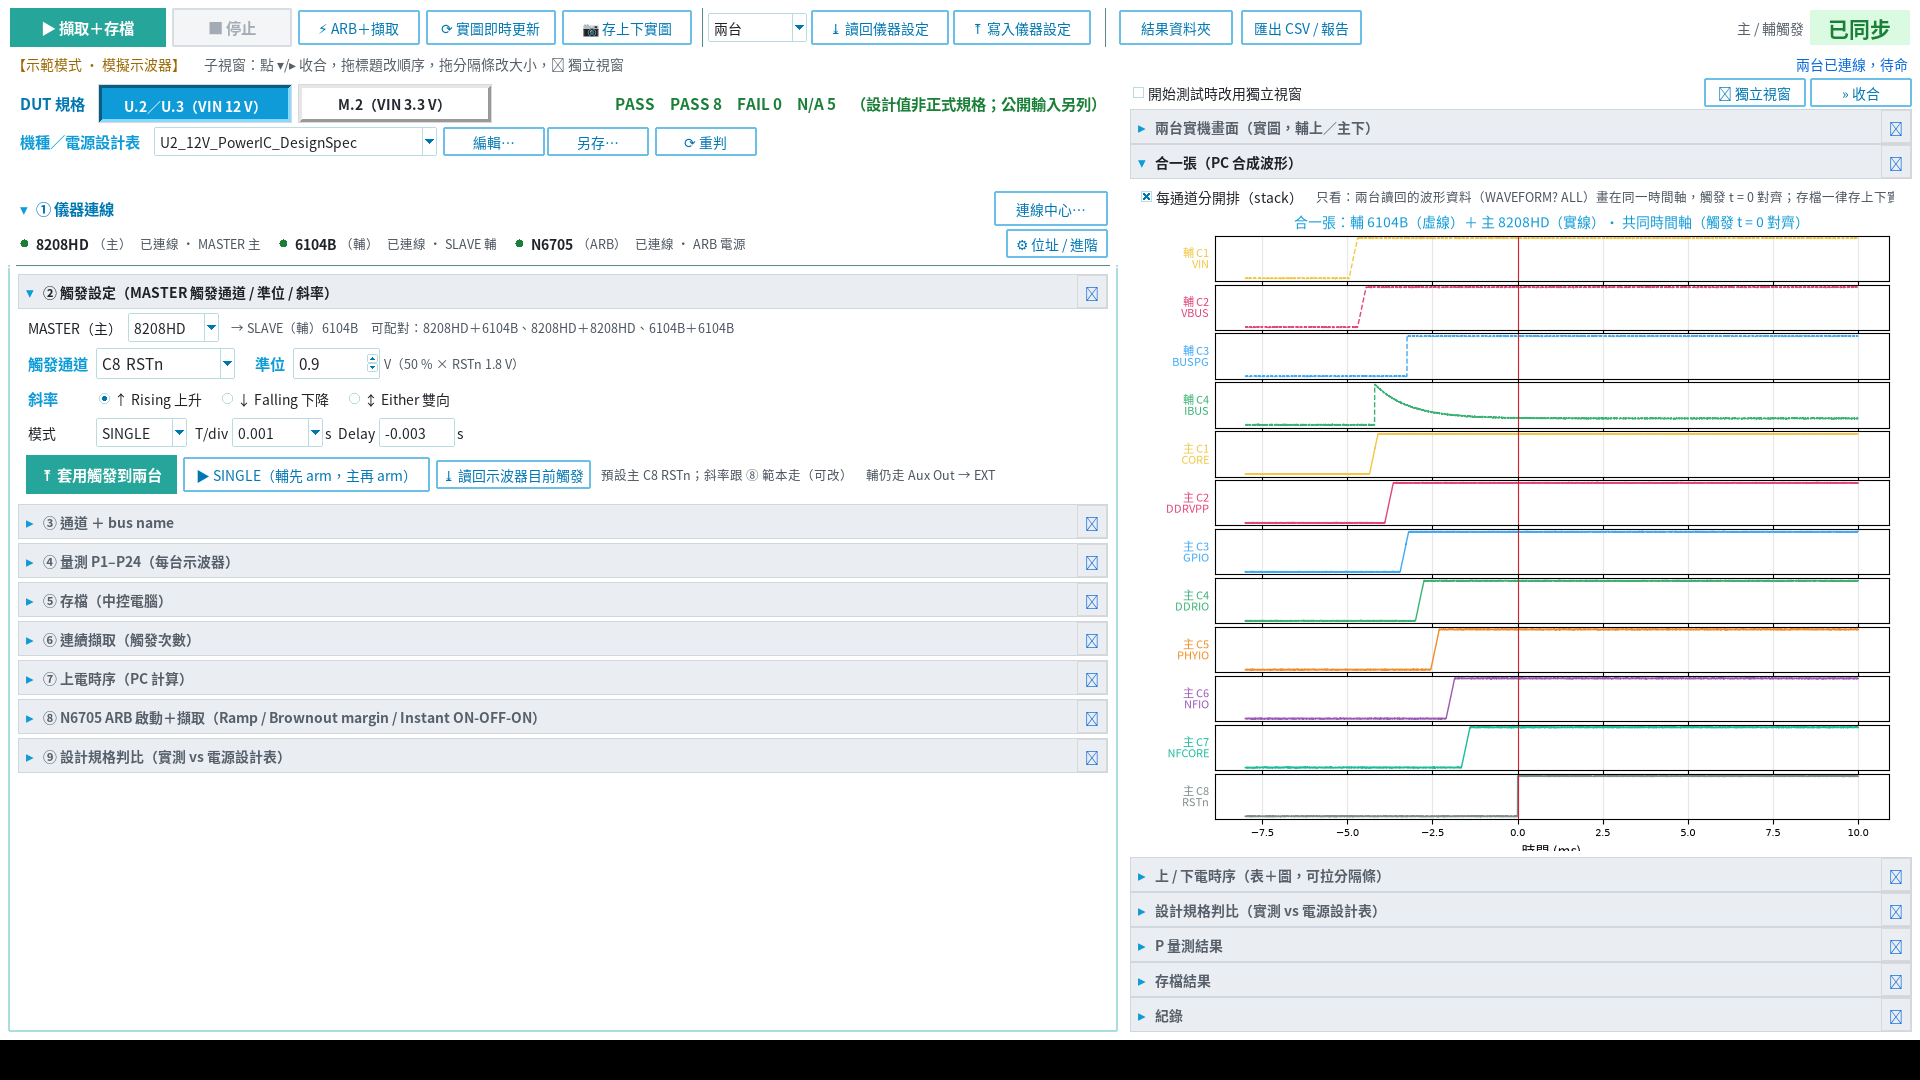
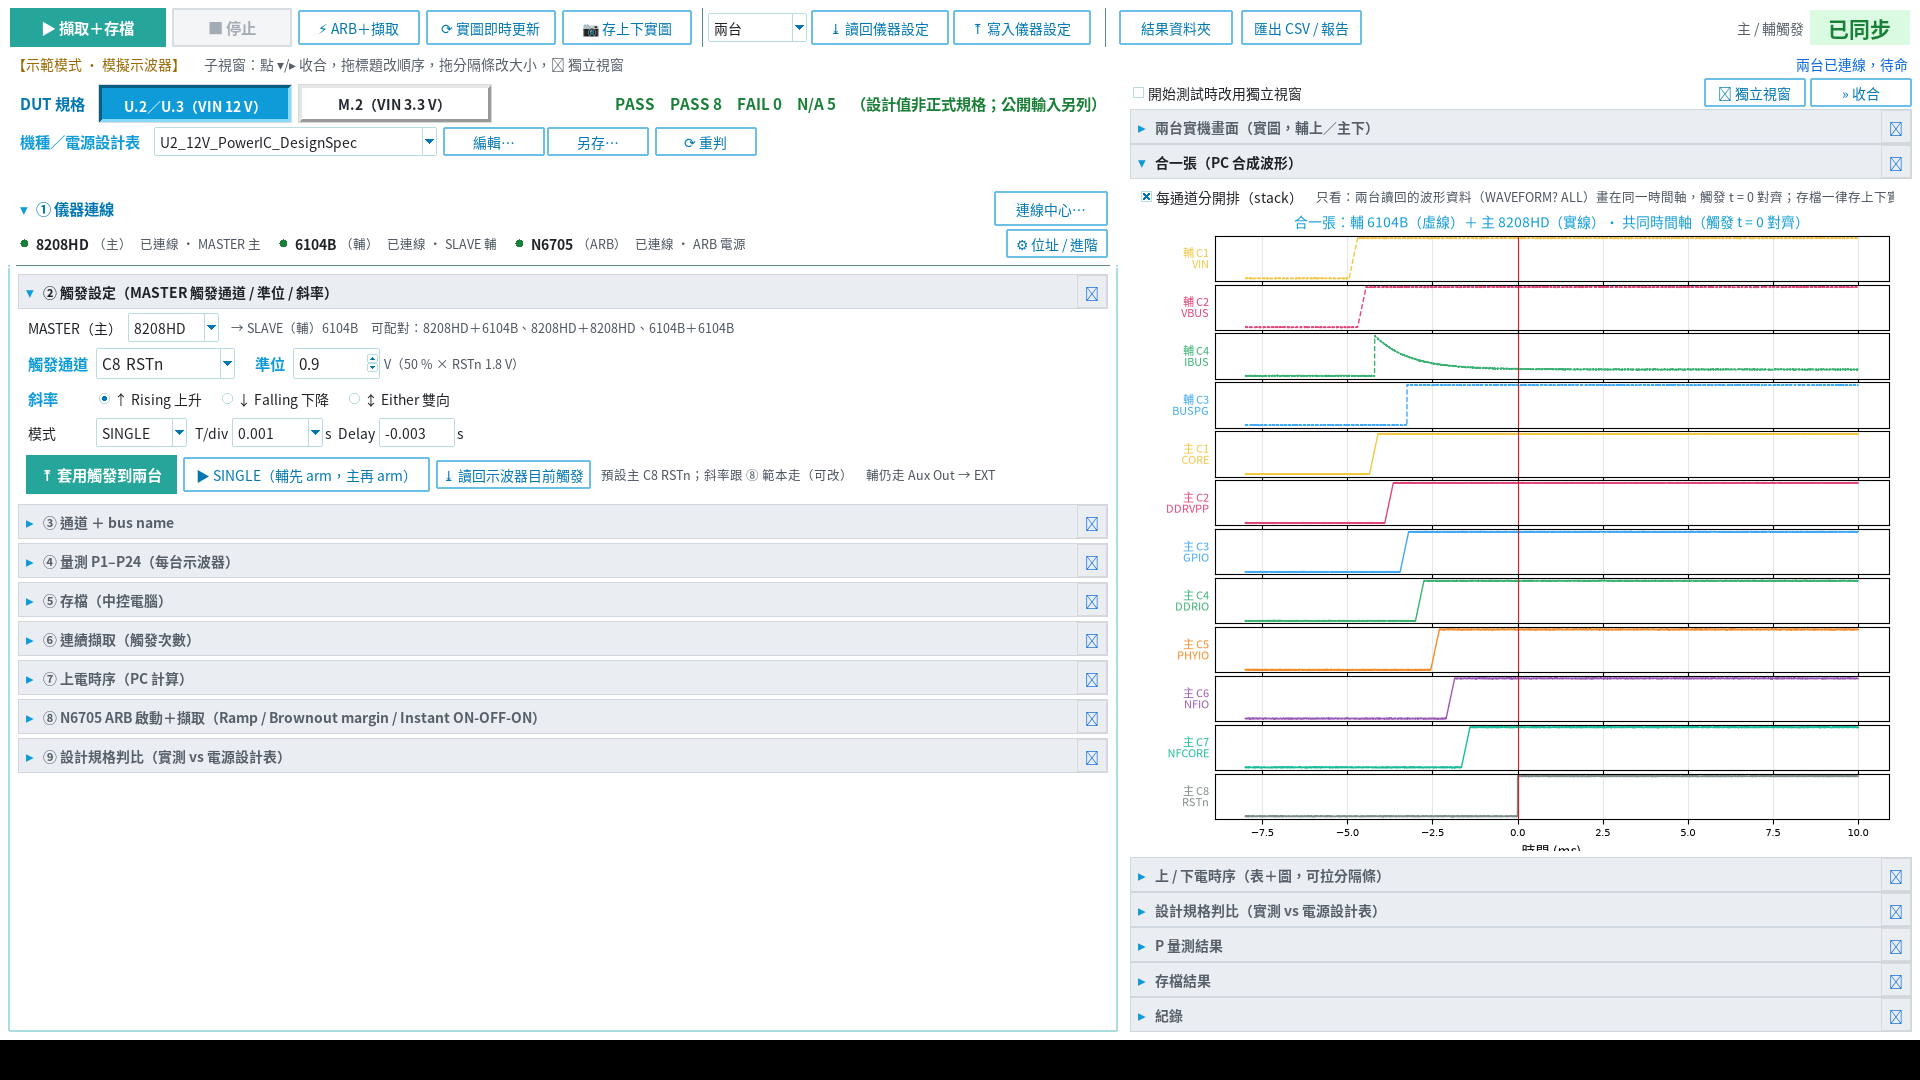
輔機列序改為 VIN, VBUS, IBUS, BUSPG（IBUS 在 BUSPG 之前），再主機 CORE…RSTn
6104B 硬體通道不變（C3 BUSPG、C4 IBUS）。「順序」字串仍依發生時間。

Changed region(s): [[0.6875, 0.3056, 0.9688, 0.3972], [0.5938, 0.3667, 0.625, 0.3972]]

diff --git a/scope_wave_saver/rails.py b/scope_wave_saver/rails.py
@@ -10,8 +10,10 @@ NCH = {"8208HD": 8, "6104B": 4}
 # 預設 bus name：同 u2core/scope2 A8_NAMES（主 8 CH）/ B4_NAMES（輔 4 CH）
 NAMES = {"8208HD": ["CORE", "DDRVPP", "GPIO", "DDRIO", "PHYIO", "NFIO", "NFCORE", "RSTn"],
          "6104B": ["VIN", "VBUS", "BUSPG", "IBUS"]}
-# VIN, VBUS, BUSPG, IBUS, CORE, DDRVPP, GPIO, DDRIO, PHYIO, NFIO, NFCORE, RSTn
-SIGNAL_ORDER = tuple(nm for m in MODELS for nm in NAMES[m])
+# 列表列序（與示波器 CH 編號分開）：輔機 VIN, VBUS, IBUS, BUSPG，再主機 CORE … RSTn
+# 6104B 硬體通道仍是 C1 VIN、C2 VBUS、C3 BUSPG、C4 IBUS（NAMES 不變）
+SIGNAL_ORDER = ("VIN", "VBUS", "IBUS", "BUSPG",
+                "CORE", "DDRVPP", "GPIO", "DDRIO", "PHYIO", "NFIO", "NFCORE", "RSTn")
 VNOM = {"CORE": 0.84, "DDRVPP": 2.5, "GPIO": 1.8, "DDRIO": 1.2, "PHYIO": 1.2, "NFIO": 1.2, "NFCORE": 0.9, "RSTn": 1.8,
         "VIN": 12.0, "VBUS": 12.0, "BUSPG": 3.3, "IBUS": 0.0}
 UNIT_A = {"IBUS"}                 # 電流通道（單位 A；Auto scale 不動；上電時序只報峰值）
@@ -23,7 +25,7 @@ def kind(name):
 
 
 def all_names():
-    """列表用通道名：輔機 VIN / VBUS / BUSPG / IBUS，再主機 CORE … RSTn。"""
+    """列表用通道名：輔機 VIN / VBUS / IBUS / BUSPG，再主機 CORE … RSTn。"""
     return list(SIGNAL_ORDER)
 
 
@@ -41,15 +43,22 @@ def name_rank(name):
 
 
 def sort_key(row):
-    """dict（model + ch）或通道名 → 列表排序鍵。"""
+    """dict（含 name 或 ch）或通道名 → 依 SIGNAL_ORDER。"""
     if isinstance(row, dict):
-        m = row.get("model")
-        ch = int(row.get("ch") or 0)
-        return (0 if m == SLAVE_DEF else 1 if m == MASTER_DEF else 2, ch, name_rank(row.get("name")))
-    return (0, 0, name_rank(row))
+        nm = row.get("name") or row.get("ch") or row.get("rail")
+        # ch 若是數字，改用 name
+        if nm is not None and not isinstance(nm, str):
+            nm = row.get("name")
+        if not nm and row.get("model") and row.get("ch"):
+            m, c = row["model"], int(row["ch"])
+            names = NAMES.get(m) or []
+            if 1 <= c <= len(names):
+                nm = names[c - 1]
+        return (name_rank(nm),)
+    return (name_rank(row),)
 
 
 def sort_rails(rows):
-    """列表／圖例／時序 CSV：輔機訊號在前，同一台依 CH。"""
+    """列表／圖例／時序 CSV：VIN, VBUS, IBUS, BUSPG，再 CORE … RSTn。"""
     return sorted(list(rows or []), key=sort_key)
 

diff --git a/tests/test_slave_first.py b/tests/test_slave_first.py
@@ -1,5 +1,5 @@
 # -*- coding: utf-8 -*-
-"""輔機訊號列在前（VIN, VBUS, BUSPG, IBUS → CORE … RSTn）；「順序」仍依發生時間。"""
+"""輔機訊號列在前（VIN, VBUS, IBUS, BUSPG → CORE … RSTn）；「順序」仍依發生時間。"""
 from __future__ import annotations
 
 import unittest
@@ -11,7 +11,7 @@ from scope_wave_saver import sequencing as SQ
 from scope_wave_saver import speccmp as SC
 
 
-WANT = ["VIN", "VBUS", "BUSPG", "IBUS", "CORE", "DDRVPP", "GPIO", "DDRIO", "PHYIO", "NFIO", "NFCORE", "RSTn"]
+WANT = ["VIN", "VBUS", "IBUS", "BUSPG", "CORE", "DDRVPP", "GPIO", "DDRIO", "PHYIO", "NFIO", "NFCORE", "RSTn"]
 
 
 def _wave(t0, t1, v0, v1, n=2000, tmin=-1e-3, tmax=5e-3):
@@ -46,6 +46,11 @@ class SignalOrderTest(unittest.TestCase):
         self.assertEqual(R.all_names(), WANT)
         self.assertEqual(R.MODELS, (R.SLAVE_DEF, R.MASTER_DEF))
         self.assertEqual([x["name"] for x in SQ.default_rails()], WANT)
+        # 6104B 硬體通道不變
+        self.assertEqual(R.NAMES[R.SLAVE_DEF], ["VIN", "VBUS", "BUSPG", "IBUS"])
+        by = {x["name"]: x["ch"] for x in SQ.default_rails()}
+        self.assertEqual(by["IBUS"], 4)
+        self.assertEqual(by["BUSPG"], 3)
 
     def test_analyze_lists_slave_first_but_numbers_by_time(self):
         rows = SQ.analyze(_waves_up(), SQ.default_rails(), ref="VIN", basis="hi")
@@ -71,10 +76,10 @@ class SignalOrderTest(unittest.TestCase):
         meas["CORE"] = 0.86
         result = SC.compare_measurements(meas)
         chs = [r["ch"] for r in result["rows"] if r.get("kind") == "design"]
-        # 公開輸入 VIN 列在設計列之後，不算 design；IBUS 應在 BUSPG 之後、CORE 之前
-        self.assertEqual(chs[:4], ["VIN", "VBUS", "BUSPG", "IBUS"])
+        # 公開輸入 VIN 列在設計列之後，不算 design；IBUS 在 VBUS 之後、BUSPG 之前
+        self.assertEqual(chs[:4], ["VIN", "VBUS", "IBUS", "BUSPG"])
         self.assertEqual(chs[4], "CORE")
-        self.assertLess(chs.index("IBUS"), chs.index("CORE"))
+        self.assertLess(chs.index("IBUS"), chs.index("BUSPG"))
         self.assertEqual(chs[-1], "RSTn")
 
 

diff --git a/scope_wave_saver/sequencing.py b/scope_wave_saver/sequencing.py
@@ -14,7 +14,7 @@
   · 電流（IBUS）：上電 → 峰值、峰值時間、slew = 10 → 90 % 峰值（A/ms）；下電 → 起始電流 90 → 10 %（A/ms）。不排序
   · 「上 / 下電時間」= 高門檻穿越（basis="hi"，預設；上電 = power good，下電 = 掉出 power good）或低門檻（basis="lo"）
   · 「順序」編號 = 依上 / 下電時間（最早 = 1）；延遲 = 該時間 − 參考 rail（預設 VIN）的時間
-  · 表格列、時序圖（上到下）、時序 CSV：輔機訊號在前（VIN, VBUS, BUSPG, IBUS），再主機（CORE … RSTn）；同一台依 CH
+  · 表格列、時序圖（上到下）、時序 CSV：輔機訊號在前（VIN, VBUS, IBUS, BUSPG），再主機（CORE … RSTn）
   · 可選：每條 rail 的延遲下限 / 上限（ms），上電一組（min_ms / max_ms）、下電一組（dn_min_ms / dn_max_ms）→ PASS / FAIL
 """
 from __future__ import annotations
@@ -38,7 +38,7 @@ def default_rails():
             out.append({"model": m, "ch": i + 1, "name": nm, "kind": kind(nm), "on": True, "nom": nom,
                         "lo_pct": 10.0, "hi_pct": 90.0, "logic_v": round(0.7 * nom, 3) if nm in LOGIC else None,
                         "min_ms": None, "max_ms": None, "dn_min_ms": None, "dn_max_ms": None})
-    return out
+    return sort_rails(out)
 
 
 def _smooth(y, n=5):
@@ -107,7 +107,7 @@ def _slew(v_lo, v_hi, t_lo, t_hi):
 def analyze(waves, rails=None, ref="VIN", basis="hi", slave_skew_s=0.0, direction="auto"):
     """waves: {(model, ch): (t, y)} → rows。
 
-    「順序」編號依上 / 下電時間；回傳列序是輔機訊號在前再主機（同一台依 CH），沒穿越的仍留在原列位。
+    「順序」編號依上 / 下電時間；回傳列序是 VIN, VBUS, IBUS, BUSPG，再 CORE … RSTn；沒穿越的仍留在原列位。
     每列帶 direction。
     """
     rails = rails or default_rails()

diff --git a/scope_wave_saver/gui.py b/scope_wave_saver/gui.py
@@ -30,7 +30,7 @@ from .pmeas import MATH_MAX, NONE, PARAMS, default_rows, inst_max, parse as pm_p
 
 PASS_C, FAIL_C, ERR_C = ("#1a7f37", "#dafbe1"), ("#cf222e", "#ffebe9"), ("#9a6700", "#fff8c5")
 RED = "#cf222e"
-from .rails import MASTER_DEF, NAMES, NCH, SLAVE_DEF, UNIT_A, VNOM  # noqa: E402
+from .rails import MASTER_DEF, NAMES, NCH, SLAVE_DEF, UNIT_A, VNOM, name_rank  # noqa: E402
 from . import speccmp as SC  # noqa: E402
 TITLE_M = {"8208HD": "WaveRunner 8208HD（8 CH）", "6104B": "HDO6104B（4 CH）"}
 KEY = {"8208HD": "wr8000", "6104B": "hdo6104"}
@@ -1003,7 +1003,7 @@ class WaveSaverUI(tk.Tk):
                                          r[18] or r[19]), tags=(x.get("verdict") or "",))
         ov = SQ.overall(rows)
         d = SQ.DIR_TXT.get(SQ.direction_of(rows), "")
-        order = " → ".join(x["name"] for x in rows if x.get("order"))
+        order = SQ.sequence_text(rows)
         self.v_seq_sum.set(f"{title}{d}順序：{order}" + (f"　判定 {ov}" if ov else ""))
         SQ.draw(self.fig_seq, rows, waves, ref=self.v["seq_ref"].get(), fam=[self.fam, "Noto Sans CJK JP", "DejaVu Sans"])
         self.cv_seq.draw_idle()
@@ -2380,6 +2380,7 @@ class WaveSaverUI(tk.Tk):
         fam = [self.fam, "Noto Sans CJK JP", "DejaVu Sans"]
         if merge:
             allw = [(m, role, i, w) for m, role in roles for i, w in self.waves[m].items()]
+            allw.sort(key=lambda x: name_rank(NAMES[x[0]][x[2] - 1] if 1 <= x[2] <= len(NAMES[x[0]]) else ""))
             n = len(allw)
             for k, (m, role, i, (t, y)) in enumerate(allw):
                 ax = self.fig.add_subplot(n, 1, k + 1) if stack else (self.fig.axes[0] if self.fig.axes else self.fig.add_subplot(111))

diff --git a/scope_wave_saver/capture.py b/scope_wave_saver/capture.py
@@ -32,7 +32,7 @@ from . import sequencing as SQ
 from .lecroy import parse_wavedesc
 from .link import Disconnected
 from .speccmp import SPEC_CSV
-from .rails import SLAVE_DEF
+from .rails import SLAVE_DEF, sort_rails
 
 POLL_S = 0.015
 ARM_CONFIRM_S = 5.0
@@ -441,7 +441,7 @@ class Capture:
 
     def _summary(self, seq, t_trig, s_ok, folder, sq_rows, verdict, pm_rows, nfiles, waves=None):
         path = os.path.join(self.run_dir, "summary.csv")
-        srt = sorted(sq_rows, key=lambda x: (x["model"] != SLAVE_DEF, x["ch"]))
+        srt = sort_rails(sq_rows)
         # 與 ⑦ 同一套：延遲（對參考 = Δt）、10↔90 % 時間、slew rate
         rail_cols = [f"{x['role']}{x['name']} 延遲 ms" for x in srt if x["kind"] != "current"] + \
                     [f"{x['role']}{x['name']} 10-90% ms" for x in srt] + \

diff --git a/scope_wave_saver/speccmp.py b/scope_wave_saver/speccmp.py
@@ -669,7 +669,7 @@ def compare_measurements(meas, seq_rows=None, timing_limits=None):
     # IBUS 不在設計表 → 仍列出待填
     if not any(canon(r["ch"]) == "IBUS" for r in rails):
         rails.append({"ch": "IBUS", "nom": None, "min": None, "max": None, "tol_pct": None, "unit": "A"})
-    # 列表列序：輔機訊號在前（VIN, VBUS, BUSPG, IBUS），再主機（CORE … RSTn）
+    # 列表列序：輔機訊號在前（VIN, VBUS, IBUS, BUSPG），再主機（CORE … RSTn）
     from .rails import name_rank
     rails.sort(key=lambda r: name_rank(r.get("ch") or ""))
     for r in rails:

diff --git a/README.md b/README.md
@@ -3,7 +3,7 @@
 Teledyne LeCroy **WaveRunner 8208HD（主 MASTER，8 CH）＋ HDO6104B（輔 SLAVE，4 CH）** 雙示波器遠端控制工具：
 觸發設定、bus name、P1–P24 量測；連線後背景自動對時、Auto scale、主 Aux Out → 輔 EXT 主從觸發，兩台實圖同時看，波形存到中控電腦。
 
-Keysight **N6705** ARB uses one shared template (Ramp / Brownout margin / Instant ON-OFF-ON) applied to a **single** selected channel (CH1 / CH3 selector, default **CH3 VIN 12V**; CH2/CH4 under Advanced). Default master trigger is **C8 RSTn**. Window sized for 1920×1080. Sub-panels (①–⑨, timing table/plot, spec compare, log, …) collapse, drag-reorder, sash-resize, or detach; layout is saved. The **DUT 規格** selector (U.2 / M.2 + 電源設計表 dropdown + overall verdict) sits in a fixed bar above ① 儀器連線. Card ⑨ is the collapsible measured-vs-spec table (Autotest_tool `dut_power` JSON, `powerprofile.rng` + `designspec.compare`); selecting the form factor sets N6705 CH3 VIN to 12 V or 3.3 V. Optional Linux NVMe rescan is off by default; when enabled, the connection strip also shows **Linux <host IP>** (dot: green / gray / red, SSH auto-reconnect, settings in ⚙) and a one-line drive summary (`nvme0n1 ｜ Model ｜ SN ｜ Capacity ｜ FW ｜ Gen4 x4 ｜ PASS`) appears under ① on the main page, and the full table stays in the collapsible NVMe card.  Signal lists (timing table/plot/CSV, spec compare, merged-wave legend, `summary.csv` rail/P columns, P-measurement tabs) put **slave 6104B first** (VIN, VBUS, BUSPG, IBUS) then master 8208HD (CORE … RSTn); the timing **順序** column stays chronological vs VIN. Scope-side P1–P12 / P1–P8 numbering is unchanged. `summary.csv` records **ARB 通道** plus **規格／電源設計表／規格總判定／規格明細**.
+Keysight **N6705** ARB uses one shared template (Ramp / Brownout margin / Instant ON-OFF-ON) applied to a **single** selected channel (CH1 / CH3 selector, default **CH3 VIN 12V**; CH2/CH4 under Advanced). Default master trigger is **C8 RSTn**. Window sized for 1920×1080. Sub-panels (①–⑨, timing table/plot, spec compare, log, …) collapse, drag-reorder, sash-resize, or detach; layout is saved. The **DUT 規格** selector (U.2 / M.2 + 電源設計表 dropdown + overall verdict) sits in a fixed bar above ① 儀器連線. Card ⑨ is the collapsible measured-vs-spec table (Autotest_tool `dut_power` JSON, `powerprofile.rng` + `designspec.compare`); selecting the form factor sets N6705 CH3 VIN to 12 V or 3.3 V. Optional Linux NVMe rescan is off by default; when enabled, the connection strip also shows **Linux <host IP>** (dot: green / gray / red, SSH auto-reconnect, settings in ⚙) and a one-line drive summary (`nvme0n1 ｜ Model ｜ SN ｜ Capacity ｜ FW ｜ Gen4 x4 ｜ PASS`) appears under ① on the main page, and the full table stays in the collapsible NVMe card.  Signal lists (timing table/plot/CSV, spec compare, merged-wave legend, `summary.csv` rail/P columns, P-measurement tabs) put **slave 6104B first** (VIN, VBUS, IBUS, BUSPG) then master 8208HD (CORE … RSTn); the timing **順序** column stays chronological vs VIN. Scope-side P1–P12 / P1–P8 numbering is unchanged. `summary.csv` records **ARB 通道** plus **規格／電源設計表／規格總判定／規格明細**.
 
 預設為示範模式（模擬示波器 ＋ 模擬 N6705 跑完整流程：ARB＋擷取、連續擷取、上 / 下電時序與 slew rate、USB 自動重連）；`--real` 接實機，尚未實機測試。完整說明：[`README_zh-TW.md`](README_zh-TW.md)。
 

diff --git a/README_zh-TW.md b/README_zh-TW.md
@@ -53,7 +53,7 @@
 - 每條 rail：**10 % / 90 %**（可改）× 標稱 → 穿越時間；上升 / 下降時間；**slew rate V/ms**（下電為負；IBUS 電流 A/ms：上電 = 10→90 % 峰值，下電 = 起始電流 90→10 %）
 - RSTn、BUSPG = 邏輯訊號：上 / 下電時間用 **邏輯門檻 V**（預設 0.7 × 標稱，可改）
 - 上 / 下電時間 = 高門檻（power good，預設）或低門檻；**順序**編號依發生時間、對 **參考 rail（預設 VIN）的延遲**
-- 列表列序（⑦ 時序表／圖／時序 CSV、⑨ 規格表、合一張圖例、`summary.csv` 欄位、P 量測列表）：**輔機訊號在前**（VIN, VBUS, BUSPG, IBUS），再主機（CORE, DDRVPP, GPIO, DDRIO, PHYIO, NFIO, NFCORE, RSTn）。「順序」欄仍是上 / 下電發生次序。示波器端 P 編號不變（8208HD P1–P12、6104B P1–P8）
+- 列表列序（⑦ 時序表／圖／時序 CSV、⑨ 規格表、合一張圖例、`summary.csv` 欄位、P 量測列表）：**輔機訊號在前**（VIN, VBUS, IBUS, BUSPG），再主機（CORE, DDRVPP, GPIO, DDRIO, PHYIO, NFIO, NFCORE, RSTn）。「順序」欄仍是上 / 下電發生次序。示波器端 P 編號不變（8208HD P1–P12、6104B P1–P8）
 - 可選：每條 rail **上電延遲下限 / 上限**、**下電延遲下限 / 上限**（ms）→ PASS / FAIL（範例：CORE、RSTn 已填，可清掉）
 - 右側「上 / 下電時序」分頁：表格 ＋ 時序圖（上到下：輔機再主機；標 10 / 90 % 點、紅線 = 觸發、藍虛線 = 參考）；每次擷取存 CSV ＋ PNG
 
